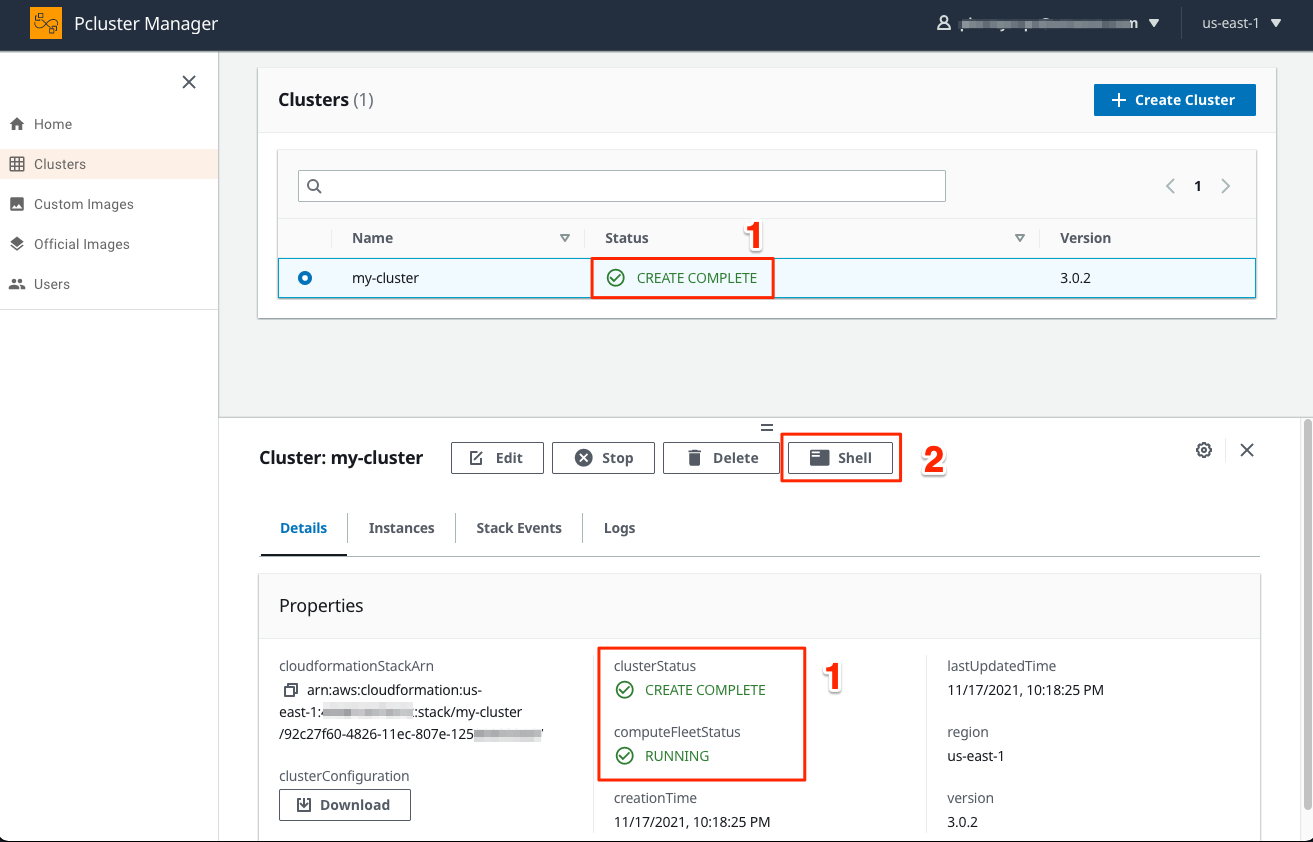
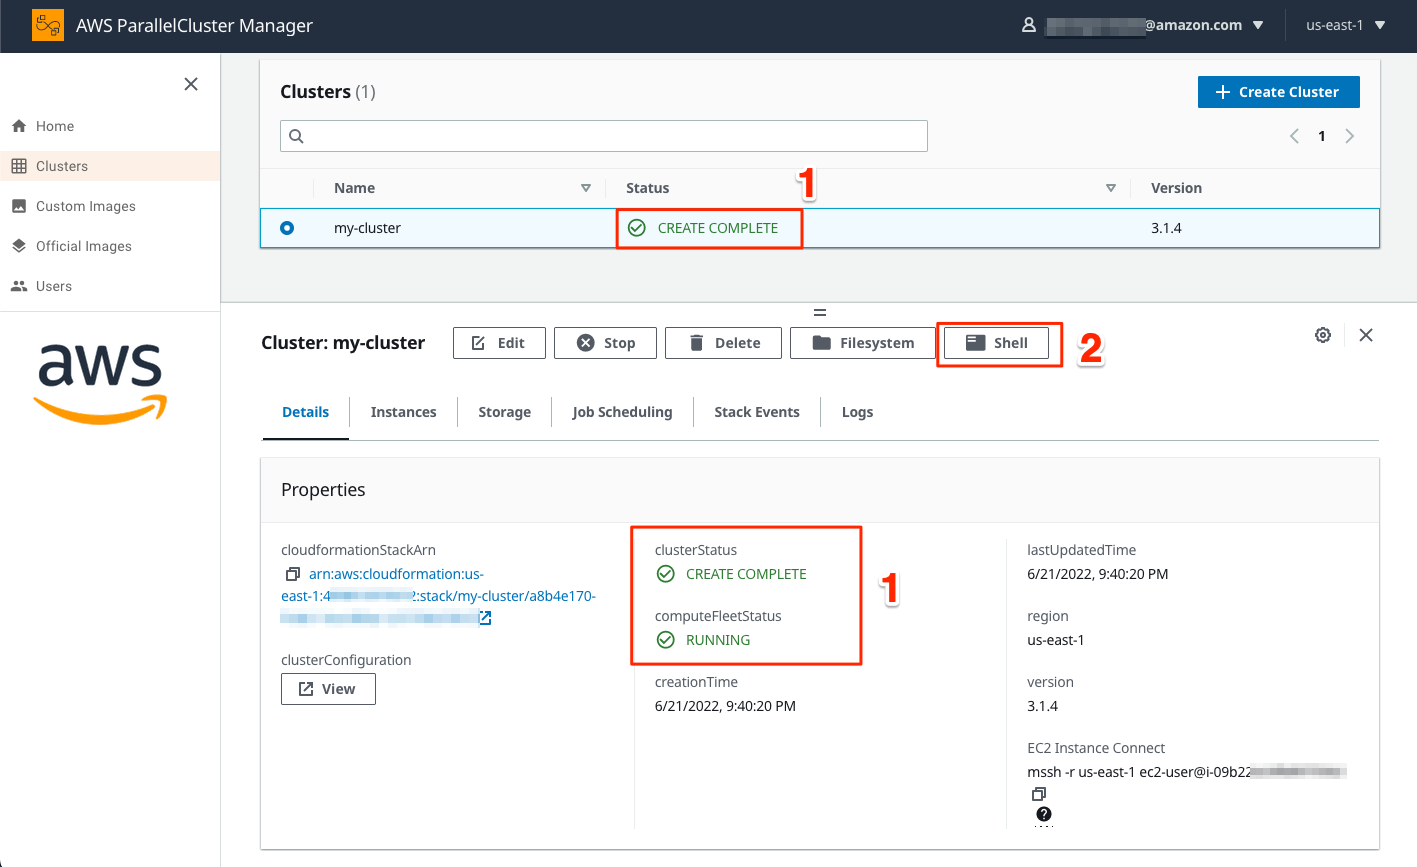
Add updates for cluster creation

diff --git a/content/03-hpc-aws-parallelcluster-workshop/04-create-a-cluster.md b/content/03-hpc-aws-parallelcluster-workshop/04-create-a-cluster.md
@@ -13,18 +13,18 @@ In the previous step you connected to **PCluster Manager**. Now we will create a
 
 2. **Enter** the name of your cluster. Here we have chosen `my-cluster`, but feel free to pick your own cluster name. **Select** the *Wizard* and **Click** the *Next* button.
 
-![PCluster Manager CloudFormation Stack](/images/hpc-aws-parallelcluster-workshop/pcm-create2.png)
+<!-- ![PCluster Manager CloudFormation Stack](/images/hpc-aws-parallelcluster-workshop/pcm-create2.png) -->
 
-3. **Select** the region to be *us-east-1*, and **select** a VPC.
+3. **Select** the region to be *us-east-1*, **select** a VPC and, **click** on the slider *Use Custom AMI?* as we will be using a custom AMI. The custom AMI ID you will use is `ami-077b6b31cb74b5c59`. It as been purposefully built for this workshop.
 
 ![PCluster Manager CloudFormation Stack](/images/hpc-aws-parallelcluster-workshop/pcm-create3.png)
 
 3. On the next screen modify the follow values:
 
-* **Set** the *Head Node Instance Type* to be `c5.large`
+* **Set** the *Head Node Instance Type* to be `c5.xlarge`
 * **Set** a *Subnet ID* (any will do, we will verify later)
 * **Set** the *Keypair* to `ee-default-keypair` if running the lab at an AWS Hosted event.
-* **Set** the *Root Volume Size* to **35**.
+* **Set** the *Root Volume Size* to **50**.
 
 Once done, **enable** the *Virtual Console* as shown below and **click** on the *Next* button.
 
@@ -36,20 +36,21 @@ Once done, **enable** the *Virtual Console* as shown below and **click** on the 
 
 * Select a *Subnet ID* (any will do).
 * Select **On-Demand** for the *Purchase Type* if not already selected.
-* Then, set the field *Static Nodes* to **0** and *Dynamic Nodes* to **10**. This means that when your cluster launches it will have 0 compute nodes but that it can scale up to as many as 10 instances when jobs are submitted.
+* Then, set the field *Static Nodes* to **4** and *Dynamic Nodes* to **0**. This means that when your cluster launches it will have 4 compute nodes. If we add Dynamic Nodes, the cluster would scale beyond 4 depending on the number of jobs we submit.
 * For the *Instance Type*, select **c5.xlarge** (you can use the search field to make it easier to find this instance type).
+* **Click** on the *Advanced Options*, for the *Root Volume* of the instances, input **50**.
 
 Finish by **clicking** on the *Next* button.
 
 ![PCluster Manager CloudFormation Stack](/images/hpc-aws-parallelcluster-workshop/pcm-create6.png)
 
-6. The last Wizard page provides an overview of the configuration file that ParallelCluster will use to deploy your cluster. Your configuration file should look similar to the image below. **Click** on *Dry Run* to perform a validation of your configuration. Once your configuration has been validated, you can **Click** on *Create* to initiate creation of your HPC cluster.
+6. The last Wizard page provides an overview of the configuration file that ParallelCluster will use to deploy your cluster. Your configuration file should look similar to the image below. **Click** on *Dry Run* to perform a validation of your configuration. You should see warnings regarding the image, ignore them. Once your configuration has been validated, you can **Click** on *Create* to initiate creation of your HPC cluster.
 
 ![PCluster Manager CloudFormation Stack](/images/hpc-aws-parallelcluster-workshop/pcm-create7.png)
 
 {{%notice note%}}
-If you see the following error, go back to the subnet selection (both head and compute) and select a subnet in one of the supported **Availibility Zones**.
-![PCluster Manager CloudFormation Stack](/images/hpc-aws-parallelcluster-workshop/subnet-az-issue.png)
+If you see an error saying that the instance type is not supported in the availability zone, go back to the subnet selection (both head and compute) and select a subnet in one of the supported **Availability Zones**.
+<!-- ![PCluster Manager CloudFormation Stack](/images/hpc-aws-parallelcluster-workshop/subnet-az-issue.png) -->
 {{% /notice %}}
 
 It'll take about 5 to 7 minutes to create all of the required resources for your cluster. You can check the *Stack Events* tab in PCluster Manager to see the progress of your cluster creation. You can also connect to your AWS account sandbox and go to the [AWS CloudFormation](https://console.aws.amazon.com/cloudformation/home) page. Once your cluster is created, you can move on to the next section.

diff --git a/content/03-hpc-aws-parallelcluster-workshop/_index.md b/content/03-hpc-aws-parallelcluster-workshop/_index.md
@@ -8,15 +8,17 @@ tags: ["HPC", "Overview"]
 
 #### AWS ParallelCluster in a nutshell
 
-A text configuration file you provide to AWS ParallelCluster specifies the defining features of your cluster (e.g., how many nodes it can scale to, what kind of shared storage it uses). AWS ParallelCluster translates those specifications into an AWS CloudFormation template and uses the template to deploy an HPC system based on those settings.
-
-By giving you a clean way to define the infrastructure-as-code for your HPC system, you can easily create numerous clusters tailored to the requirements of individual applications or workloads. For example, you can create one cluster for running workloads that require GPUs and a high-performance parallel file system such as [Amazon FSx for Lustre](https://docs.aws.amazon.com/fsx/latest/LustreGuide/what-is.html) for your machine learning workloads and define another cluster for CPU-optimized workloads with high network bandwidth, such as [c5n.24xlarge](https://aws.amazon.com/ec2/instance-types/c5/) for your computational fluid dynamics (CFD) jobs.
+AWS ParallelCluster gives you a clean way to define the infrastructure-as-code for your HPC system, you can easily create numerous clusters tailored to the requirements of individual applications or ML workloads. For example, you can create one cluster for ML training workloads requiring high-end GPUs like Nvidia A100 on [p4d.24xlarge](https://aws.amazon.com/ec2/instance-types/p4/) coupled with a [high-performance parallel file system](https://docs.aws.amazon.com/fsx/latest/LustreGuide/what-is.html) and define another cluster with CPU-optimized instances [c5.24xlarge](https://aws.amazon.com/ec2/instance-types/c5/) for data preparation. With AWS ParallelCluster regardless of the workload, you can use the same services and HPC architectures.
 
 ![pcluster-arch](/images/hpc-aws-parallelcluster-workshop/pc-how-it-works.png)
 
 Another key feature of AWS ParallelCluster is that you can connect to your cluster with [NICE DCV](https://docs.aws.amazon.com/dcv/latest/adminguide/what-is-dcv.html) to visualize and post-process your data [remotely](https://docs.aws.amazon.com/parallelcluster/latest/ug/dcv-v3.html) with a virtual desktop. This way you can save time and egress charges by eliminating the need to transfer your data out of AWS!
 
 AWS ParallelCluster provides [several commands](https://docs.aws.amazon.com/parallelcluster/latest/ug/commands-v3.html) you can use to manage your cluster such as listing your clusters and their instances, updating a cluster with a new configuration, and shutting down a cluster.
+
+To create a cluster you need to provide to AWS ParallelCluster a text configuration file that specifies the defining features of your cluster (e.g., how many nodes it can scale to, what kind of shared storage it uses). AWS ParallelCluster translates those specifications into an AWS CloudFormation template and uses the template to deploy an HPC system based on those settings.
+
+In this lab, you will use AWS ParallelCluster through PCluster Manager (PCM). PCM is an open-source project that provides an web-interface on top of ParallelCluster.
 
 #### What you will do in this part of the lab
 

diff --git a/content/03-hpc-aws-parallelcluster-workshop/03-connect-pcmanager-lab.md b/content/03-hpc-aws-parallelcluster-workshop/03-connect-pcmanager-lab.md
@@ -6,7 +6,7 @@ tags = ["tutorial", "initialize", "ParallelCluster"]
 +++
 
 {{%notice note%}}
-If you are participating in this workshop as part of re:Invent, then *PCluster Manager* will already be deployed for you.
+If you are running this lab as part of an AWS event, then *PCluster Manager* will already be deployed for you.
 {{% /notice %}}
 
 Once your PCluster Manager CloudFormation stack has been deployed, you can follow these steps to connect to it:
@@ -21,11 +21,11 @@ Once your PCluster Manager CloudFormation stack has been deployed, you can follo
 
 4. Next, click on **Sign Up** to create a username and password for accessing PCluster Manager.
 
-![Signup Screen](/images/hpc-aws-parallelcluster-workshop/sign-up.png)
+<!-- ![Signup Screen](/images/hpc-aws-parallelcluster-workshop/sign-up.png) -->
 
-5. Enter a username and password that meets the requirements and click **Sign Up**:
+5. Enter a username and password that meets the requirements and click **Sign Up**.
 
-![Signup Screen](/images/hpc-aws-parallelcluster-workshop/signup-password.png)
+<!-- ![Signup Screen](/images/hpc-aws-parallelcluster-workshop/signup-password.png) -->
 
 6. You'll get an email with a verification code, enter the code to continue:
 

diff --git a/content/03-hpc-aws-parallelcluster-workshop/02-pcluster-intro.md b/content/03-hpc-aws-parallelcluster-workshop/02-pcluster-intro.md
@@ -7,7 +7,7 @@ tags = ["tutorial", "install", "ParallelCluster"]
 
 [PCluster Manager](https://github.com/aws-samples/pcluster-manager) is an open source project that leverages the [AWS ParallelCluster API](https://docs.aws.amazon.com/parallelcluster/latest/ug/api-reference-v3.html) to create a web-based user interface for performing cluster management actions on your HPC clusters. This way you can create and manage your clusters through a web browser with point-and-click actions rather than through your terminal.
 
-PCluster Manager is entirely serverless. Authentication is provided through Amazon Cognito, which is why a valid email is required as part of deploying the PCluster Manager stack. Attendees at re:Invent will provide an initial login in the following steps.
+PCluster Manager is entirely serverless. Authentication is provided through Amazon Cognito, which is why a valid email is required as part of deploying the PCluster Manager stack. Attendees will provide an initial login in the following steps.
 
 ![pcluster-manager-arch](/images/hpc-aws-parallelcluster-workshop/pcm-arch.png)
 

diff --git a/content/03-hpc-aws-parallelcluster-workshop/07-submit-job.md b/content/03-hpc-aws-parallelcluster-workshop/07-submit-job.md
@@ -74,7 +74,7 @@ Now, submit your fist job!
 
 Submitted jobs are immediately processed if the job is in the queue and a sufficient number of compute nodes exist.
 
-However, if there are not enough compute nodes to satisfy the computational requirements of the job, such as the number of cores, AWS ParallelCluster creates new instances to satisfy the requirements of the jobs sitting in the queue. However, note that you determined the minimum and maximum number of nodes when you created the cluster. If the maximum number of nodes is reached, no additional instances will be created.
+However, if there are not enough compute nodes to satisfy the computational requirements of the job, such as the number of cores, AWS ParallelCluster creates new instances to satisfy the requirements of the jobs sitting in the queue. However, note that you determined the minimum and maximum number of nodes when you created the cluster to 4 instances so the cluster will keep that capacity for the life of the cluster.
 
 Submit your first job using the following command on the head node:
 
